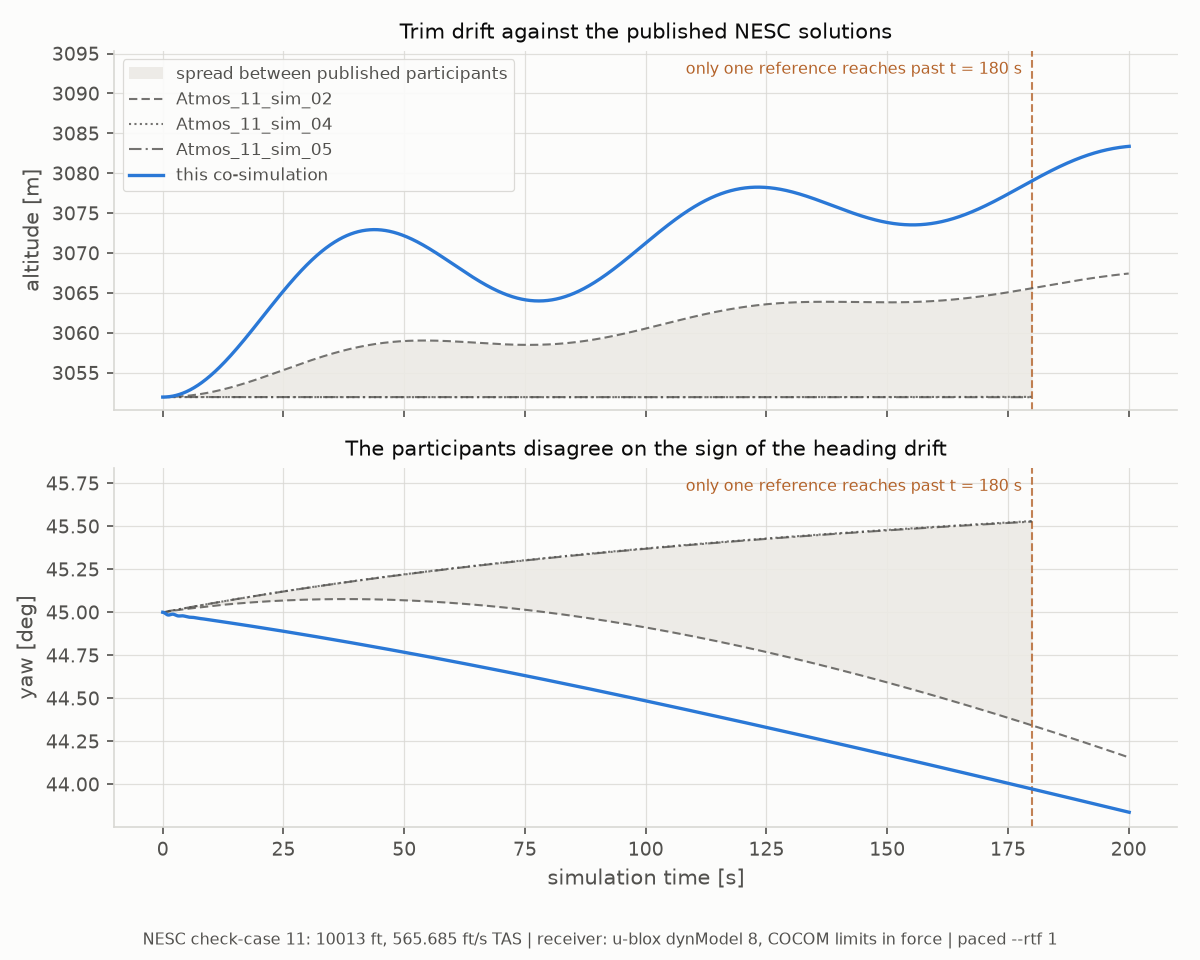
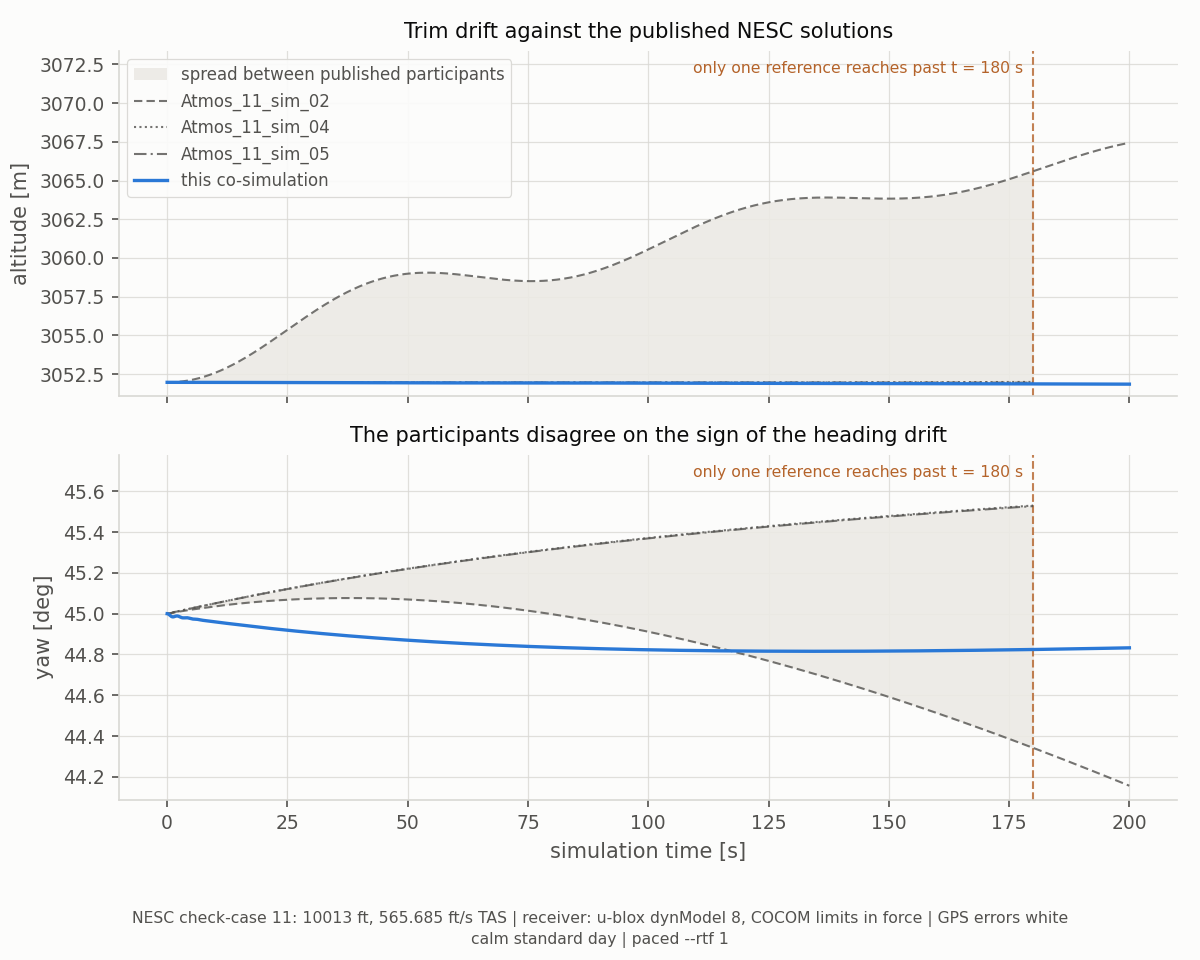
doc(examples): re-measure the F-16 trim numbers on the 0.18.2 plant
The case-11/12 drift, ground-track, envelope, field and ambient numbers were
from the 0.17.4/0.18.0-era plant with its phugoid. Re-measured from the
seed-11 baseline runs (--seed 11 --gps-period 0.1 --step 0.01 --rtf 1)
against Aetherion 0.18.2 @ 49e75b8 on Windows 11 / MSVC, the same runs
876e4f8 drew the altitude figures from:

- case 11 against NESC: "drifts more than any participant, ~16 m / 0.44 deg"
  no longer holds. The run holds altitude with sim_04/05 (-0.10 m at
  t = 180 s), turns -0.18 deg, and is inside the spread from t = 117 s
  (at most 0.20 deg outside, t ~ 54 s). Old values kept, labelled
  pre-0.17.4.
- case11_nesc_envelope.png (+31.4 m / -1.16 deg) and
  case11_ground_track.png (-369 m -> -138 m) regenerated; both are plant
  truth and decoded fixes, unaffected by the host's pacing.
- field 49.3-49.5 uT -> 48.6 uT at the trim point (WMM2025 sidecar),
  decoded magnitude 47.1-47.4 uT.
- case 12: ambient -45.9 -> -44.4 C; README's BMP390 bullet and the
  phugoid bullet brought to the doc's 0.18.2 table (+218 m / +0.47 deg ->
  -0.44 m / +0.88 deg).
- the trim pitch on 0.18.2 (2.638943 deg case 11, -0.741564 deg case 12) is
  recorded beside the 0.14.1 analysis, which is not redone.
- TODO.md: dated 2026-11-13 notes; history not overwritten.

diff --git a/doc/f16_trim_ecos_cosim.rst b/doc/f16_trim_ecos_cosim.rst
@@ -77,7 +77,8 @@ rather than a second example:
      - GPS / baro / mag
      - **everything in band, all 200 s** — 2001 of 2001 GPS epochs carry a
        fix, the barometer is squarely in band, 36° N gives the magnetometer a strong,
-       near-constant field (49.3–49.5 µT)
+       near-constant field (48.6 µT at the trim point, WMM2025; the decoded
+       magnitude, which carries the part's own errors, holds 47.1–47.4 µT)
    * - ``12``
      - 30 013 ft, 2000 ft/s TAS, Mach 2.01
      - GPS / baro
@@ -125,7 +126,7 @@ than the WMM and what that costs at this site.
 **The magnetometer's die temperature is ambient air** (``out.T_K`` through a
 Kelvin→Celsius modifier) — near enough for a part whose temperature channel
 quantizes at 0.8 °C, but it matters on case 12, where ambient at 30 013 ft is
-−45.9 °C and the part is rated to −40 °C (see below).
+−44.4 °C and the part is rated to −40 °C (see below).
 
 Case 11: the cross-sensor reference
 -----------------------------------
@@ -172,15 +173,27 @@ Two findings this comparison surfaced, one closed and one open:
   with no Earth-rotation or curvature terms while the integrator flies over a
   rotating round Earth; at this flight condition those terms relieve 0.42 %
   of the required lift, predicting a trim-alpha shift of the right sign and
-  order (135 % of the observed gap). A lead, not a finding.
+  order (135 % of the observed gap). A lead, not a finding. Those figures
+  are from 0.14.1. On 0.18.2 ``F16Plant.fmu`` starts case 11 at a pitch of
+  2.638943° (t = 0 of the seed-11 run below), 0.0044° *under* the published
+  value rather than 0.0128° over it; the analysis has not been redone
+  against that plant.
 
 Against the published NESC participant solutions the check is a sanity bound,
 not a precision test: at t = 180 s ``Atmos_11_sim_02`` has drifted −0.66° of
 heading and +44.7 ft while ``sim_04``/``sim_05`` drift +0.53° *the other way*
-and hold altitude to a tenth of a foot. This run drifts more than any
-published participant — up to ~16 m of altitude and 0.44° of heading beyond
-the participants' own spread, in ``sim_02``'s direction — which is the open
-Aetherion-side trim question above showing up in the flyout.
+and hold altitude to a tenth of a foot. On Aetherion 0.18.2 this run holds
+altitude with ``sim_04``/``sim_05`` (−0.10 m at t = 180 s, −0.12 m at
+cut-off) and turns −0.18° of heading by t = 180 s — ``sim_02``'s direction,
+at less than a third of its drift. It sits inside the participants' spread
+from t = 117 s on; before that its heading lies up to 0.20° outside it
+(t ≈ 54 s, while ``sim_02`` is still turning the other way), and its
+altitude never more than 0.08 m below it. Measured from
+``--case 11 --seed 11 --gps-period 0.1 --step 0.01 --rtf 1`` against
+Aetherion 0.18.2 @ 49e75b8 (Windows 11 / MSVC, 2026-11-13). On the
+pre-0.17.4 plant the same flyout drifted more than any published
+participant — up to ~16 m of altitude and 0.44° of heading beyond their
+spread, in ``sim_02``'s direction.
 
 Case 12: the flight the sensors cannot follow
 ---------------------------------------------
@@ -381,7 +394,7 @@ Check-case 11: the cross-sensor reference
 
 .. figure:: _static/f16_trim_ecos/case11_ground_track.png
    :width: 100%
-   :alt: Two panels — a straight 34.5 km ground track at true aspect ratio, and cross-track departure growing to -369 m over the same distance with the GPS fixes scattered about it
+   :alt: Two panels — a straight 34.5 km ground track at true aspect ratio, and cross-track departure growing to -138 m over the same distance with the GPS fixes scattered about it
 
    The flyout, and the departure the flyout cannot show. At true aspect ratio
    (left) an open-loop trim flyout is a straight line: 34.5 km on a 45°
@@ -391,10 +404,14 @@ Check-case 11: the cross-sensor reference
 
    The right panel is the same flight with the commanded heading rotated out:
    cross-track departure in metres against kilometres flown. The aircraft is
-   asked to hold 45° and the phugoid turns it, reaching **−369 m by cut-off**
-   — and *this* is the quantity the published participants disagree about. It
-   is also the scale at which the receiver's error is finally visible as what
-   it is: a metre-scale scatter about a track that departs by hundreds.
+   asked to hold 45° and does not quite, reaching **−138 m by cut-off**
+   (−369 m on the pre-0.17.4 plant, whose phugoid turned it further) — and
+   *this* is the quantity the published
+   participants disagree about. It is also the scale at which the receiver's
+   error is finally visible as what it is: a metre-scale scatter about a
+   track that departs by more than a hundred. Drawn from
+   ``--case 11 --seed 11 --gps-period 0.1 --step 0.01 --rtf 1`` against
+   Aetherion 0.18.2 @ 49e75b8, on Windows 11 / MSVC, 2026-11-13.
 
 .. figure:: _static/f16_trim_ecos/case11_altitude_consistency.png
    :width: 100%
@@ -549,7 +566,7 @@ Check-case 11: the cross-sensor reference
 
 .. figure:: _static/f16_trim_ecos/case11_nesc_envelope.png
    :width: 100%
-   :alt: Altitude and yaw against time with the published participants drawn as three dashed lines and the spread between them shaded, this run's trace outside the band on both panels, and a marker at t=180 s past which only one reference continues
+   :alt: Altitude and yaw against time with the published participants drawn as three dashed lines and the spread between them shaded, this run's altitude on the band's lower edge with sim_04 and sim_05, its yaw below the band early and inside it from about t=117 s, and a marker at t=180 s past which only one reference continues
 
    This run against the published participant solutions — a sanity bound, not
    a precision test, and the figure is drawn to make that unmistakable. The
@@ -557,12 +574,18 @@ Check-case 11: the cross-sensor reference
    narrow the participants agree and a deviation means something, and where it
    is wide they do not and it does not.
 
-   On altitude the band is wide by t = 100 s, and this run sits above it,
-   drifting +31.4 m through its phugoid where ``sim_04`` and ``sim_05`` hold
-   altitude to a tenth of a foot. On heading the participants disagree about
-   the *direction* of the drift, and this run turns −1.16° — ``sim_02``'s way,
-   past ``sim_02``. Both are the open Aetherion-side trim question of the case
-   sections above, showing up in the flyout.
+   On altitude the band is wide by t = 100 s only because ``sim_02`` climbs
+   (+13.6 m by t = 180 s); this run holds altitude with ``sim_04`` and
+   ``sim_05``, −0.10 m at t = 180 s against their +0.03 / −0.02 m. On heading
+   the participants disagree about the *direction* of the drift, and this run
+   turns −0.18° by t = 180 s — ``sim_02``'s way, but inside the spread from
+   t = 117 s on; before that it sits up to 0.20° below the band (t ≈ 54 s),
+   while ``sim_02`` is still turning positive. Drawn from
+   ``--case 11 --seed 11 --gps-period 0.1 --step 0.01 --rtf 1`` against
+   Aetherion 0.18.2 @ 49e75b8, on Windows 11 / MSVC, 2026-11-13: the figure is
+   plant truth only, so the host's pacing does not enter it. On the
+   pre-0.17.4 plant this run sat above the altitude band, drifting +31.4 m
+   through its phugoid, and turned −1.16°, past ``sim_02``.
 
    The band stops before the plot does, and is marked where it stops. Only
    ``sim_02`` reaches t = 200 s; a verifier that compares nothing but the times

diff --git a/examples/f16_trim_ecos/README.md b/examples/f16_trim_ecos/README.md
@@ -37,8 +37,8 @@ at the same time**; case 12 takes two of them out of band at once, over the same
 | stack | case 11 (10 013 ft, 172 m/s) | case 12 (30 013 ft, 610 m/s) | the rocket scenario |
 |---|---|---|---|
 | GPS | clears every envelope limit; **2001 of 2001 epochs carry a fix** | past dynModel 8's 500 m/s from t = 0; **0 of 2001 epochs carry a fix** | loses the fix at t = 31 s |
-| barometer | 10 013 ft is squarely in band | most of the flight below the part's 300 hPa rated floor | leaves the atmosphere |
-| magnetometer | 36° N gives a strong, near-constant field (49.3–49.5 µT) | still in band — the one survivor | field magnitude swings 10% with altitude |
+| barometer | 10 013 ft is squarely in band | the whole flight below the part's −40 °C rated die temperature; pressure just above its 300 hPa floor | leaves the atmosphere |
+| magnetometer | 36° N gives a strong, near-constant field (48.6 µT at the trim point, WMM2025; decoded magnitude 47.1–47.4 µT) | still in band — the one survivor | field magnitude swings 10% with altitude |
 
 That is what makes the case-11 run the **cross-sensor consistency reference** — baro altitude against GPS
 altitude, magnetic heading against GPS course, all on one trajectory. It is the case the
@@ -63,16 +63,23 @@ the flight computer changes; measured over a full 200 s run:
   9214 m. That is COCOM's AND holding: the cut-off needs 18 000 m *and* 515 m/s, and 9.2 km is half the
   altitude threshold. This is the one flight in the NESC set that tells COCOM's AND apart from an OR — the
   rocket crosses both thresholds within seconds of each other and cannot.
-* **BMP390: 253 of 286 conversions below the part's 300 hPa rated pressure floor** (minimum 290.9 hPa), with
-  the die at **−45.9 °C, below its −40 °C rating** (the FMU uses ambient air as die temperature). The part
-  model saturates only at the ADC rails, so the conversions read plausibly — as they do on the real silicon,
+* **BMP390: all 1232 decoded conversions with the die at −44.1 °C, below its −40 °C rating** (the FMU uses
+  ambient air, −44.4 °C here, as die temperature). Pressure stays inside its rating: the aircraft holds
+  9148 m and the lowest reading is 300.8 hPa, 0 of 1232 below the 300 hPa floor. (On the pre-0.17.4 plant a
+  +218 m phugoid took 253 of 286 conversions below that floor, minimum 290.9 hPa, with the die at −45.9 °C.)
+  The part model saturates only at the ADC rails, so the conversions read plausibly — as they do on the real silicon,
   which offers no out-of-rating indication either. What the FMU adds is a side channel the part cannot: its
   `conversions` / `conversions_out_of_rating` FMI outputs count the violation (the host prints them in its
   summary), and each envelope crossing is debug-logged once with the offending value.
 * **The magnetometer stays in band**, and with the IMU it is all the sensor fusion has left.
-* **The plant's phugoid is bigger here**: +218 m peak altitude excursion and +0.47° of heading over the
-  window. The published participants split the same way they do on case 11 — `sim_02` climbs +140 m through
-  its phugoid while `sim_04`/`sim_05` hold altitude to 0.3 m.
+* **The plant holds its trim**: on Aetherion 0.18.2 altitude stays within 0.44 m of 9148 m over the window
+  and heading turns +0.88°. (On the pre-0.17.4 plant the same flight showed a +218 m phugoid and +0.47° of
+  heading.) The published participants split the same way they do on case 11 — `sim_02` climbs +140 m
+  through its phugoid while `sim_04`/`sim_05` hold altitude to 0.3 m.
+
+Measured from `--case 12 --seed 11 --gps-period 0.1 --step 0.01 --rtf 1` against Aetherion 0.18.2 @ 49e75b8,
+on Windows 11 / MSVC, 2026-11-13. The decoded conversion count moves with pacing, and on that host the paced
+loop fell behind and starved the polled part; the latched counter (9998 of 9998 out of rating) does not.
 
 Against Aetherion's standalone `F16SupersonicTrim` (≥ 0.14.1) the run verifies exactly as case 11 does:
 0.491 m constant initial offset (the same five-decimal Kitty Hawk rounding), 0.000 m worst altitude
@@ -183,11 +190,15 @@ trim did not change — its initial pitch is identical to 4×10⁻¹¹ deg betwe
 this example's version floor stays at 0.14.0: nothing it consumes moved. Comparing against a standalone run
 **older than 0.14.1** reproduces the old disagreement, and the verifier fails it on all three checks.
 
-### Open: this run drifts more than any published participant
+### Open: this run's trim is not the published one
 
-Up to ~16 m in altitude and 0.44° in heading beyond the participants' own spread, in `sim_02`'s direction — and
-still after 0.14.1, because that release made Aetherion self-consistent, not consistent with the check-case.
-Both Aetherion paths now trim to the same point, and it is not the published one:
+On Aetherion 0.18.2 the case-11 flyout sits inside the participants' spread from t = 117 s on: it holds
+altitude with `sim_04`/`sim_05` (−0.10 m at t = 180 s) and turns −0.18° of heading by then, `sim_02`'s
+direction, lying up to 0.20° outside the spread before t = 117 s (seed-11 baseline run, 2026-11-13). On the
+pre-0.17.4 plant it drifted more than any published participant — up to ~16 m in altitude and 0.44° in heading
+beyond their spread — and still did after 0.14.1, because that release made Aetherion self-consistent, not
+consistent with the check-case. At 0.14.1 both Aetherion paths trimmed to the same point, and it was not the
+published one:
 
 | source | initial pitch (= trim angle of attack) |
 |---|---|
@@ -195,6 +206,10 @@ Both Aetherion paths now trim to the same point, and it is not the published one
 | NESC published initial condition | **2.643331°** |
 
 It is no longer a weight question: Aetherion's trim weight is 20 509.3 lbf against NASA's 20 509.4 lbf.
+
+On 0.18.2 `F16Plant.fmu` starts case 11 at a pitch of **2.638943°** (t = 0 of the seed-11 run), 0.0044°
+*under* the published value rather than 0.0128° over it. The table above and the analysis below are from
+0.14.1 and have not been redone against that plant.
 
 **Leading suspect, not yet a finding.** `TrimSolver` balances lift against weight with no Earth-rotation or
 curvature terms, while the integrator flies the aircraft over a rotating round Earth. For level flight at this

diff --git a/TODO.md b/TODO.md
@@ -32,6 +32,12 @@ and the autopilot example **reuses the `f16_flight_computer` executable** rather
     die at **−45.9 °C, below the −40 °C rating** (the FMU uses ambient air as die temperature). The
     part model only saturates at the ADC rails; it models neither rating.
   - Plant drifts +218 m peak / +0.47 deg (sim_02: +140 m; sim_04/05 hold altitude to 0.3 m).
+  *2026-11-13, on the 0.18.2 plant (Aetherion 0.18.2 @ 49e75b8; `--case 12 --seed 11 --gps-period 0.1
+  --step 0.01 --rtf 1`, Windows 11 / MSVC): the plant holds its trim — altitude within 0.44 m of 9148 m,
+  heading +0.88° over 200 s. Ambient is −44.4 °C (out.T_K 228.77 K) and the die reads −44.1 °C on all
+  1232 decoded conversions; pressure stays above the 300 hPa floor (minimum 300.8 hPa, 0 of 1232 below);
+  9998 of 9998 latched conversions out of rating, on temperature alone. The figures above are the
+  pre-0.17.4 plant's.*
 
   Docs closed out: the example README carries the case-12 section with the figures above and the
   verification/regeneration commands, both file headers and the in-band comments cover both cases,
@@ -56,6 +62,11 @@ and the autopilot example **reuses the `f16_flight_computer` executable** rather
   not re-measured — the install ships no example executables and the local Aetherion checkout is
   v0.11.3-era, so regenerating `f16_s12` still needs a ≥ 0.14.1 build tree.
   *2026-11-13: the radar altimeter was removed from Hemerion by maintainer decision; the radar references above are history.*
+  *2026-11-13: the +217.7 m / +0.470° drift above is the pre-0.17.4 plant's. Against Aetherion 0.18.2
+  @ 49e75b8 the same seed-11 baseline flight (`--step 0.01 --gps-period 0.1 --rtf 1`) drifts −0.44 m /
+  +0.88°: no phugoid. The −45.9 / −46.1 °C die readings become −44.1 °C (ambient −44.4 °C), and the
+  pressure-floor violations are gone (minimum 300.8 hPa); the counter's 100 % now comes from the
+  temperature rating alone.*
 
 * **Regenerating the Aetherion standalone references** (needed for `verify_trajectory.py
   --aetherion`, must be a build that includes 0.14.1's `TrimWeight.h`), from the Aetherion root:
@@ -166,6 +177,12 @@ and the autopilot example **reuses the `f16_flight_computer` executable** rather
   required lift, predicting −0.0172 deg against the −0.0128 deg gap (right sign and order, 135 % of
   size). Case 12 is a second data point for testing it — Eötvös and curvature grow with v and v² — but
   needs the alpha-per-weight sensitivity at Mach 2 first. Not yet written up for Aetherion.
+  *2026-11-13: on Aetherion 0.18.2 @ 49e75b8 `F16Plant.fmu` starts at a pitch of 2.638943 deg (case 11)
+  and −0.741564 deg (case 12), read at t = 0 of the seed-11 baseline runs: 0.0044 deg under and
+  0.0050 deg under the published values, where 0.14.1 was 0.0128 over and 0.0028 over. The case-11
+  flyout now sits inside the NESC participants' spread from t = 117 s on (altitude −0.10 m and heading
+  −0.18° at t = 180 s; at most 0.20° outside the heading spread, t ≈ 54 s). The lead above is from
+  0.14.1 and has not been re-derived against 0.18.2.*
 
 * **Documentation figures — done (2026-09-19).** `plot_results.py` in both examples, and a
   `Results` section on each doc page: 7 figures per check-case for the trim example
